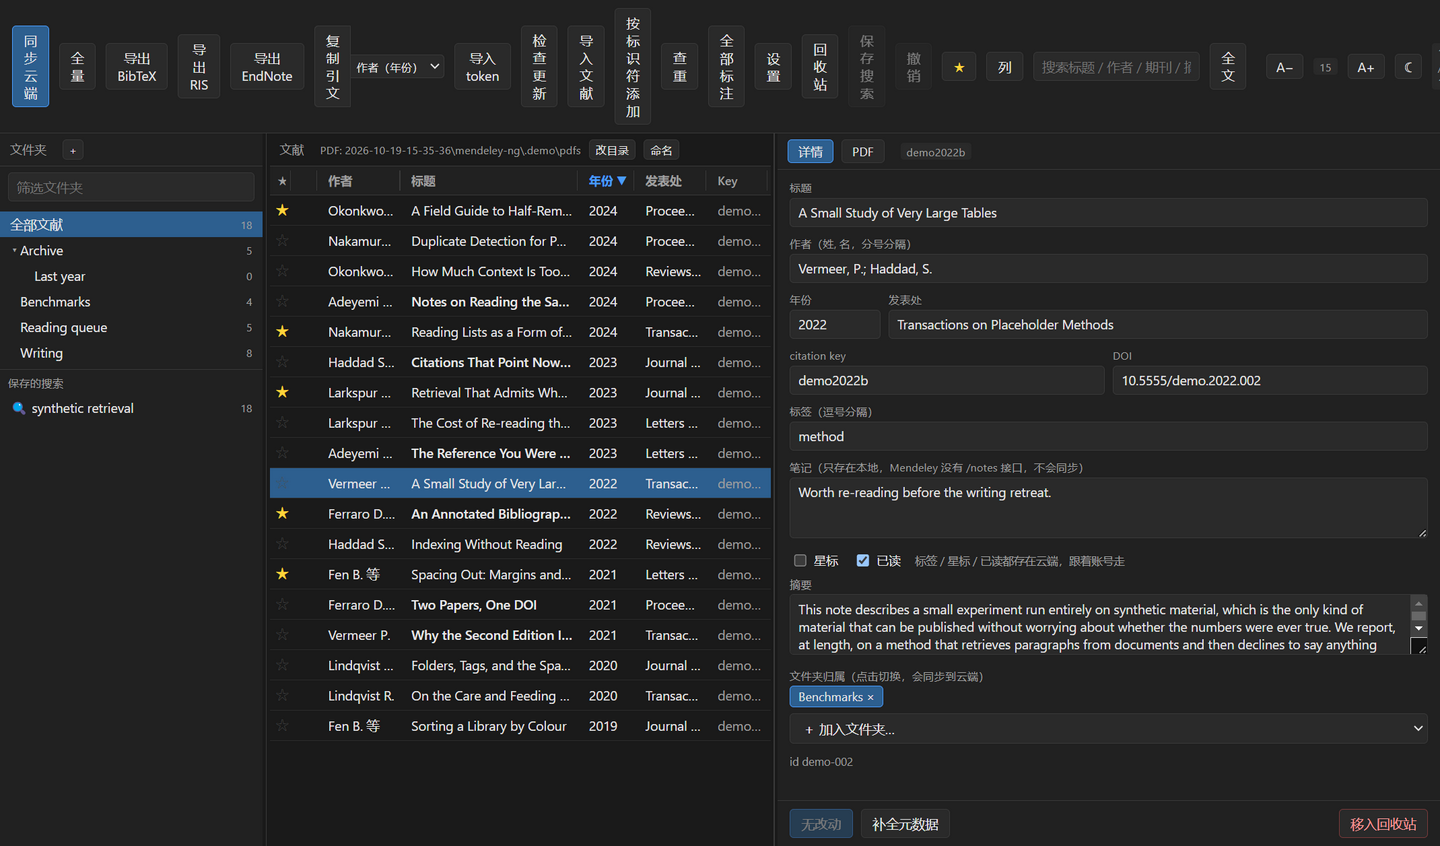
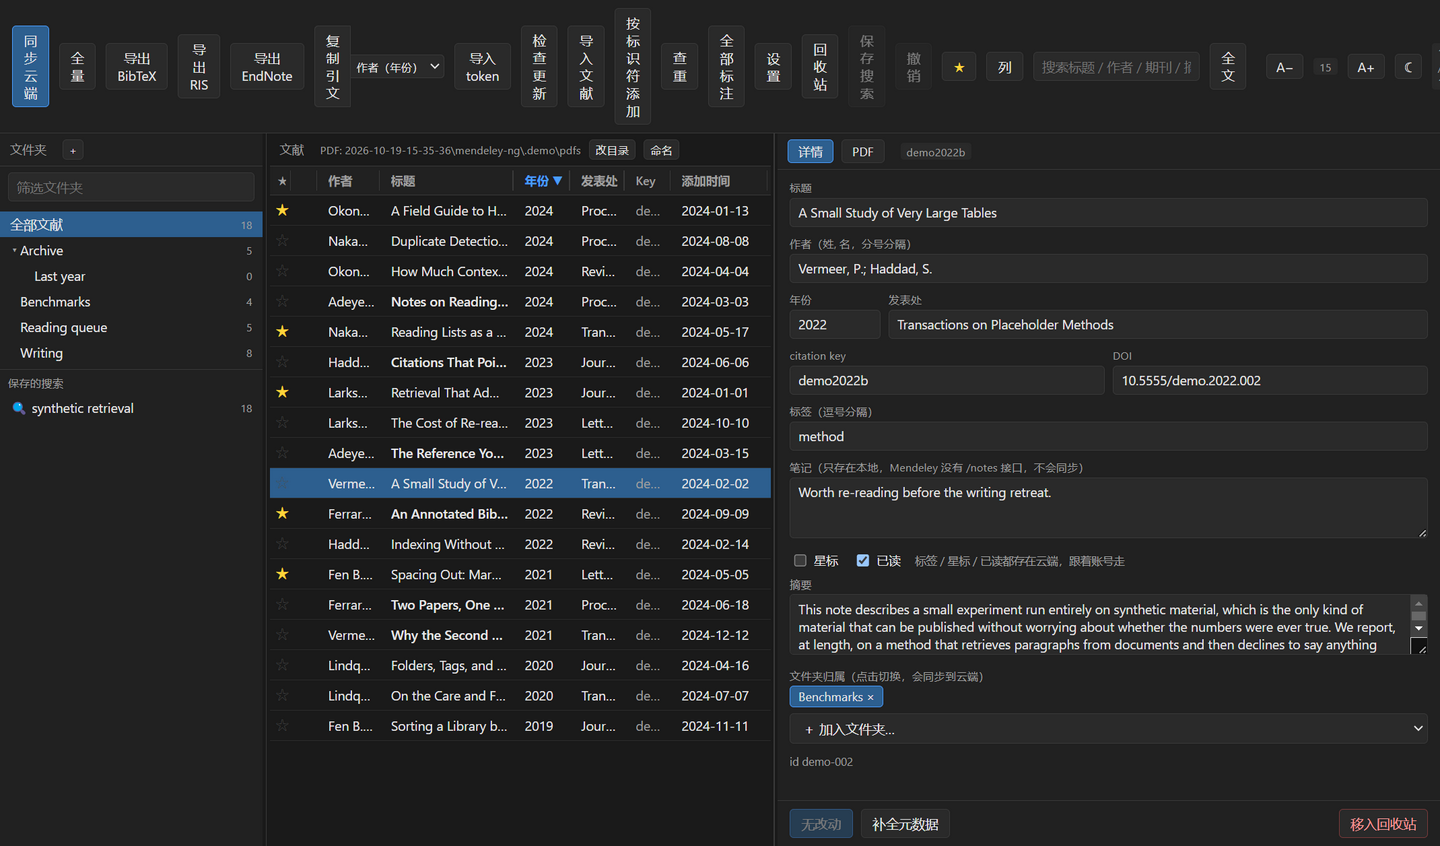
Show when a paper was added, by default
The other seven columns can say what a paper is and where it came from,
but not the one thing that decides which end of the library to read from.

Changing the default is not enough on its own: `cols` is written to the
config the first time the app starts, so everybody already running it
would keep the old seven for ever.  A layout that still matches the
previous default exactly has never been arranged by hand, so it follows
the new one; anything else is left alone, because quietly adding back a
column somebody removed is worse than not adding it.

An eighth column also made the middle pane's min-content wide enough to
steal eighteen pixels back from the folder tree.  That pane was sized
from its content, which for a table means every column added squeezes
the pane the user dragged to a width; it now takes what is left over and
lets the table scroll instead.

Changed region(s): [[0.25, 0.1844, 0.5312, 0.8913]]

diff --git a/electron/main/index.ts b/electron/main/index.ts
@@ -970,6 +970,70 @@ async function runSmoke() {
   )
   await new Promise((r) => setTimeout(r, 300))
 
+  // 添加时间 is part of the default layout now, and a layout that was never
+  // customised follows the default instead of staying on the one it was first
+  // written with.  The migration is checked by writing the previous default
+  // into the config and reloading: the header has to come back with the new
+  // column in it, and a layout somebody arranged has to be left alone.
+  const headKeys = async () =>
+    JSON.parse(
+      await w.webContents.executeJavaScript(
+        'JSON.stringify([...document.querySelectorAll(".col-head > div")]'
+        + '.map(d=>d.dataset.col))'
+      )
+    )
+  const OLD_DEFAULT = ['star', 'pdf', 'authors', 'title', 'year', 'source', 'citation_key']
+  const atStart = await headKeys()
+  const setColsAndReload = async (cols: string[] | null) => {
+    // written straight to the config rather than through setConfig, which can
+    // only merge: a layout the user never had would come back as a null
+    const cfg = loadConfig()
+    if (cols) cfg.cols = cols
+    else delete cfg.cols
+    saveConfig(cfg)
+    await w.loadFile(path.join(__dirname, '../renderer/index.html'))
+    await new Promise((r) => setTimeout(r, 2500))
+  }
+  await setColsAndReload(OLD_DEFAULT)
+  const migrated = await headKeys()
+  log('columns after migration', migrated)
+  expect(
+    'a layout that was never customised picks up 添加时间',
+    migrated.includes('created') && migrated.length === OLD_DEFAULT.length + 1,
+    migrated
+  )
+  // and one the reader arranged themselves is left exactly as it was
+  const mine = ['star', 'title', 'created', 'year']
+  await setColsAndReload(mine)
+  const kept = await headKeys()
+  log('columns after a custom layout', kept)
+  expect(
+    'a layout somebody arranged is left alone',
+    JSON.stringify(kept) === JSON.stringify(['star', 'title', 'year', 'created']),
+    { kept, mine }
+  )
+  // back to whatever the reader had, which for most is the default itself
+  await setColsAndReload(cfg0.cols ?? null)
+  const colsRestored = await headKeys()
+  log('columns colsRestored', colsRestored)
+  expect(
+    'the run leaves the column layout as it found it',
+    JSON.stringify(colsRestored) === JSON.stringify(atStart),
+    { colsRestored, atStart }
+  )
+  const firstAdded = await w.webContents.executeJavaScript(
+    '(()=>{const i=[...document.querySelectorAll(".col-head > div")]'
+    + '.findIndex(d=>d.dataset.col==="created");if(i<0)return "none";'
+    + 'const r=document.querySelector("div.row");if(!r)return "norow";'
+    + 'return (r.children[i]?.textContent||"").trim()})()'
+  )
+  log('first 添加时间 cell', firstAdded)
+  expect(
+    '添加时间 reads as a date, not a timestamp',
+    /^\d{4}-\d{2}-\d{2}$/.test(String(firstAdded)),
+    firstAdded
+  )
+
   // The file naming template.  Only its preview is exercised: actually
   // renaming moves files on disk, so the confirmation is answered with 取消
   // and the template is put back afterwards.

diff --git a/src/lib/columns.ts b/src/lib/columns.ts
@@ -77,8 +77,23 @@ export const COLUMNS: ColumnDef[] = [
 
 export const COL_BY_KEY = new Map(COLUMNS.map((c) => [c.key, c]))
 
-/** What a fresh install shows; Mendeley's own default, roughly. */
+/** What a fresh install shows; Mendeley's own default, roughly.  When is the
+ *  one question the other seven cannot answer — a library is read in the order
+ *  it was built, not in the order it was published. */
 export const DEFAULT_COLS: ColKey[] = [
+  'star',
+  'pdf',
+  'authors',
+  'title',
+  'year',
+  'source',
+  'citation_key',
+  'created'
+]
+
+/** The default before `created` joined it.  Kept only so that a layout which
+ *  still matches it can be told apart from one somebody arranged themselves. */
+const PREV_DEFAULT_COLS: ColKey[] = [
   'star',
   'pdf',
   'authors',
@@ -97,6 +112,23 @@ export function normaliseCols(cols: string[] | undefined): ColKey[] {
     if (cols.includes(c.key)) seen.add(c.key)
   }
   return seen.size ? [...seen] : [...DEFAULT_COLS]
+}
+
+/**
+ * Carry a layout that was never customised over to the current default.
+ *
+ * Adding a column to the default does nothing for anybody whose `cols` was
+ * written the first time the app started: it still names the old seven, and
+ * the new column never appears.  So a layout that is exactly the previous
+ * default follows the new one, and anything else is left alone — quietly
+ * adding back a column somebody took out is worse than not adding it.
+ */
+export function migrateCols(cols: string[] | undefined): ColKey[] {
+  const cur = normaliseCols(cols)
+  if (!cols?.length) return cur
+  const prev = normaliseCols(PREV_DEFAULT_COLS)
+  const same = cur.length === prev.length && cur.every((k, i) => k === prev[i])
+  return same ? [...DEFAULT_COLS] : cur
 }
 
 /** Narrowest a column with no floor of its own can be dragged. */

diff --git a/src/App.tsx b/src/App.tsx
@@ -22,7 +22,7 @@ import ConfirmDialog from './components/ConfirmDialog'
 import DocTable from './components/DocTable'
 import ColumnPicker from './components/ColumnPicker'
 import FullTextView from './components/FullTextView'
-import { normaliseCols, type ColKey, type SortKey } from './lib/columns'
+import { migrateCols, normaliseCols, type ColKey, type SortKey } from './lib/columns'
 import {
   CITE_STYLES,
   DEFAULT_CITE_STYLE,
@@ -177,7 +177,7 @@ export default function App() {
   const [setupDone, setSetupDone] = useState(false)
   const [fontSize, setFontSize] = useState(15)
   const [theme, setTheme] = useState<'dark' | 'light'>('dark')
-  const [cols, setCols] = useState<ColKey[]>(() => normaliseCols(undefined))
+  const [cols, setCols] = useState<ColKey[]>(() => migrateCols(undefined))
   // widths the reader has dragged to; empty until something is dragged, so a
   // column that was never touched keeps the track its definition gives it
   const [colWidths, setColWidths] = useState<Record<string, number>>({})
@@ -240,7 +240,7 @@ export default function App() {
       setPdfDir(c.pdfDir)
       setSaved(c.savedSearches ?? [])
       setViews(c.views ?? [])
-      setCols(normaliseCols(c.cols))
+      setCols(migrateCols(c.cols))
       if (c.colWidths) setColWidths(c.colWidths)
       if (c.pdfNameTemplate) setNameTemplate(c.pdfNameTemplate)
       if (isCiteStyle(c.citeStyle)) setCiteStyle(c.citeStyle)

diff --git a/src/styles.css b/src/styles.css
@@ -325,7 +325,13 @@ textarea:focus {
   background: var(--bg-2);
 }
 .pane-mid {
-  flex: 1 1 auto;
+  /* basis 0, not auto: an `auto` basis sizes the pane to its content, and the
+     content here is a table whose columns have widths of their own.  Every
+     column added, or any column dragged wider, then inflates the pane and
+     steals width back from the tree — which is the opposite of what dragging
+     the tree to a width is for.  With a zero basis the pane takes what is
+     left over and the table scrolls sideways instead. */
+  flex: 1 1 0;
   min-width: 260px;
 }
 .pane-right {

diff --git a/HANDOFF.md b/HANDOFF.md
@@ -689,6 +689,25 @@ docs/screenshots/           README 用的四张图，由 `npm run demo` 生成
 `quiet` 参数，渲染进程那侧的类型没跟着改。**改完代码一律 `npm run typecheck`，
 不要 `npx tsc --noEmit`。**
 
+### 9.2k 第十二轮：添加时间进默认列（2026-10-31「添加时间作为默认字段显示」之后）
+
+| 编号 | 缺陷 | 后果 | 修法 |
+| --- | --- | --- | --- |
+| 88 | **默认列里没有添加时间** | 库是按"什么时候加进来的"读的，另外七列都答不了这个问题 | `DEFAULT_COLS` 加 `created` |
+| 89 | **改默认对老用户无效** | `config.cols` 一旦写过就永远是旧的七列，新列永远不会出现 | `migrateCols()`：与旧默认**完全一致**的布局（=从未自定义过）跟随新默认；自己排过的原样不动 |
+| 90 | **加一列会把文件夹树挤窄** | `.pane-mid` 是 `flex: 1 1 auto`，基准按内容算。中间栏多一列 → min-content 变大 → 反向压缩左栏，用户拖好的树宽守不住 | `.pane-mid` 改 `flex: 1 1 0`：中间栏只吃剩下的，表格不够宽就横向滚 |
+
+实现要点（这一轮要防的）：
+
+- **89 判断"是否自定义过"要比规范化之后的值，不是原始 `cols`**：`normaliseCols`
+  会去重并按注册表排序，而旧默认本来就是注册表顺序，两者规范化后逐项相等
+  才算"没动过"。
+- **89 迁移后不要写回 config**：幂等即可，下次启动再迁移一次无害；一旦用户自己
+  改了列，`changeCols` 会写回，就不再匹配旧默认、不再被迁移。
+- **89 绝不能给自定义布局强塞列**：把用户亲手去掉的列悄悄加回来，比不加更糟。
+- **90 `min-width: 260px` 不能删**：窄窗口下中间栏要有下限，否则一行都显示不全。
+  改的只是 `flex-basis`，`auto` → `0`。
+
 ### 9.3 差距可以接受，先不做
 
 - **下划线 / 墨水 / 文本标注**：云端 `/annotations` 只认 `highlight` 与 `sticky_note`，
